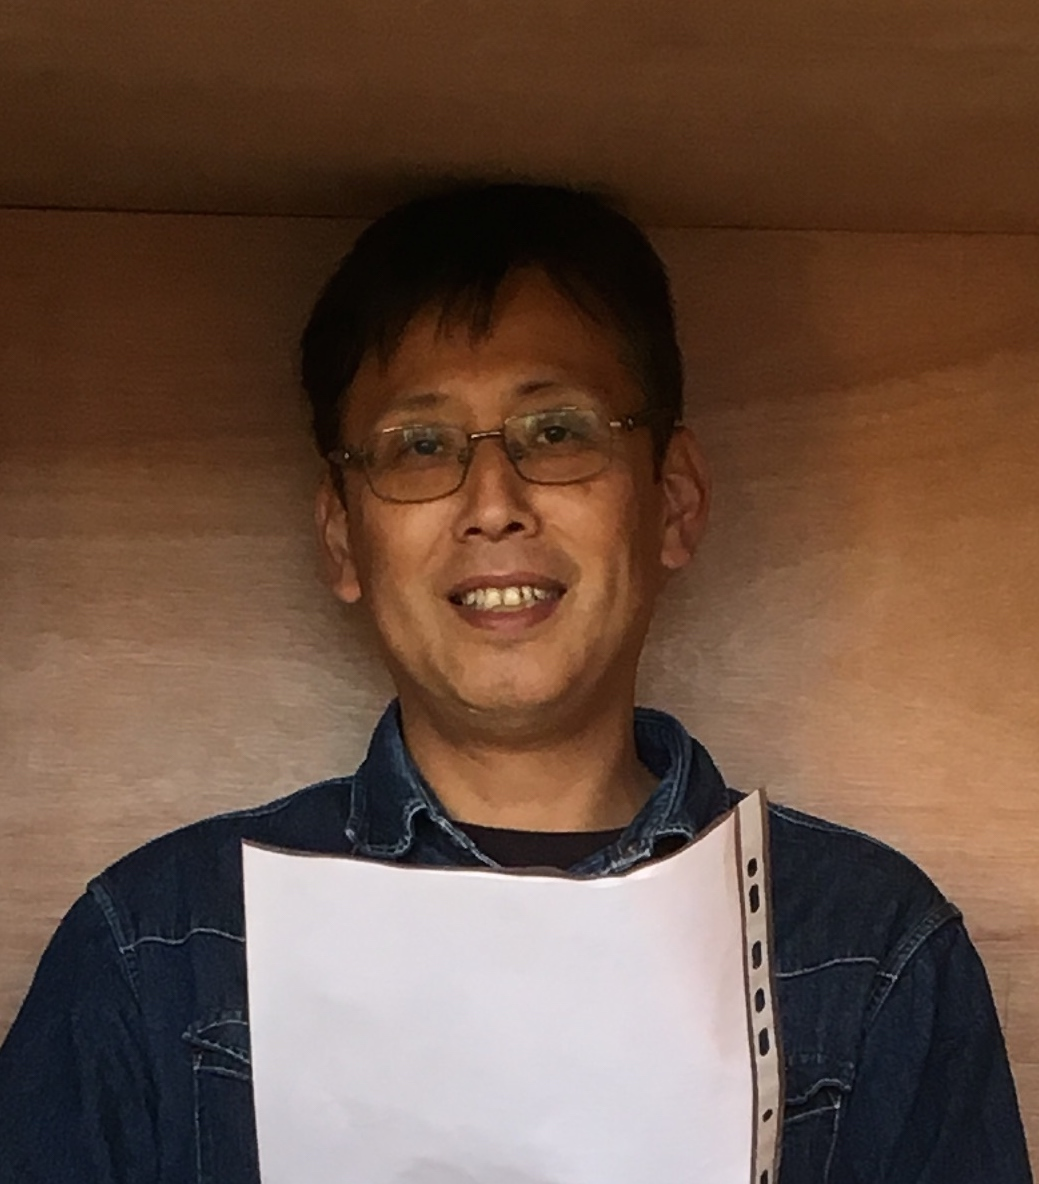
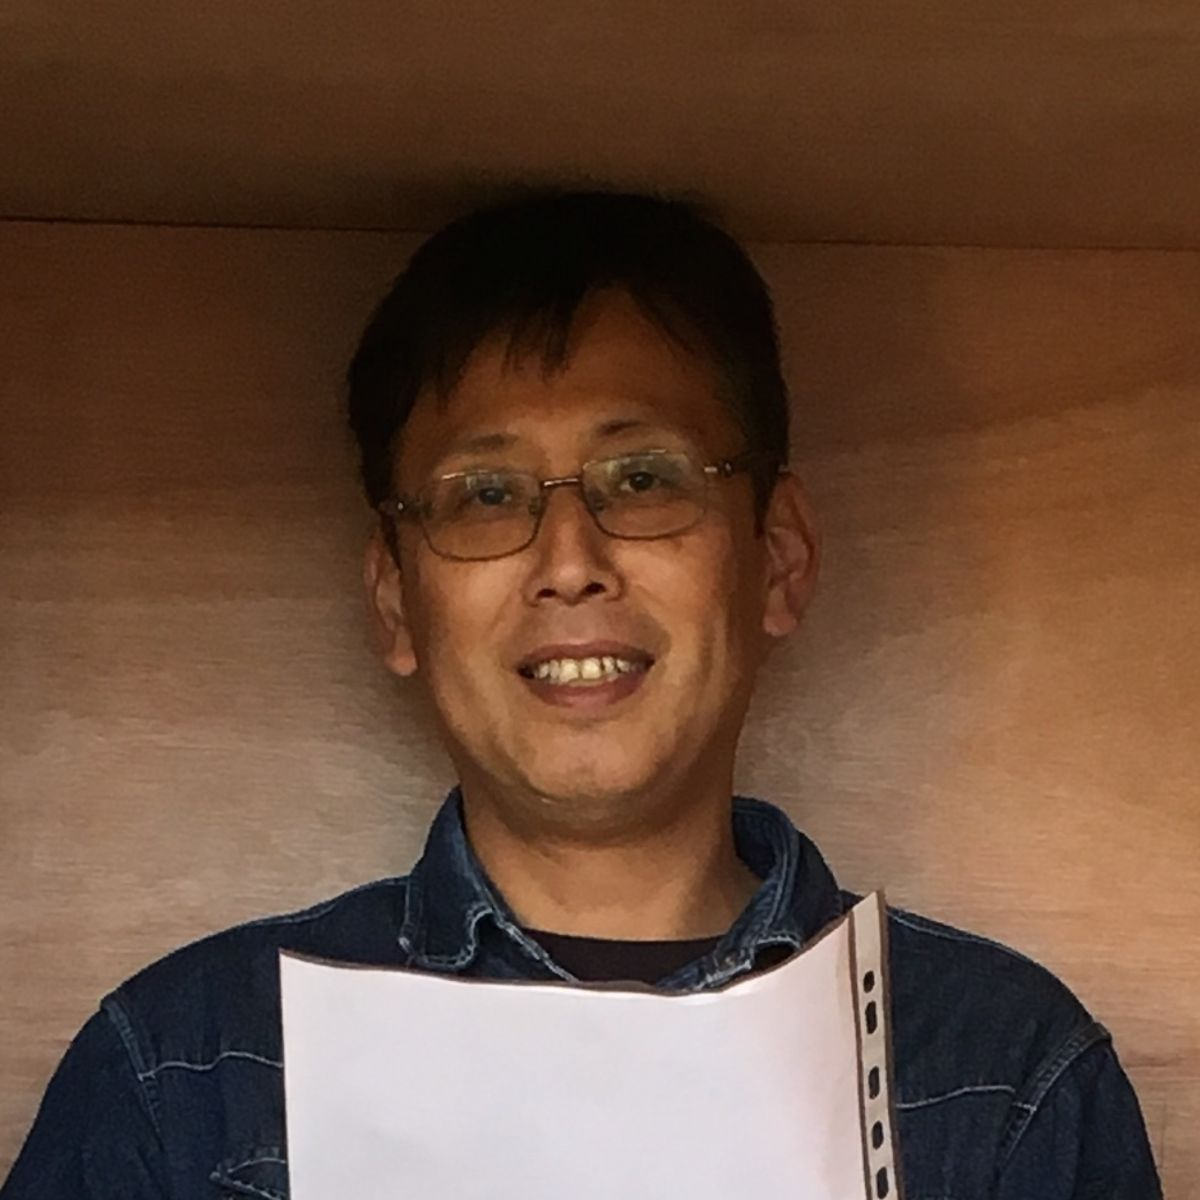
some more photos

diff --git a/committees/steeringcommittee.html b/committees/steeringcommittee.html
@@ -202,7 +202,7 @@
               </div>
             </div>
             <div class="card">
-              <img class="card-img-top" src="../images/globe.png" alt="img">
+                <img class="card-img-top" src="../facebook/MasayukiObayashi.jpg" alt="../images/globe.png">
               <div class="card-body">
                 <h5 class="card-title"><a href="http://www.jamstec.go.jp/souran/html/Masayuki_Obayashi_8d9ac-e.html">Masayuki Obayashi</a></h5>
                 <p class="card-text"><a href="http://www.jamstec.go.jp/e/">JAMSTEC</a></p>

diff --git a/committees/sciencecommittee.html b/committees/sciencecommittee.html
@@ -184,7 +184,7 @@
 	      </div>
 	    </div>
 	    <div class="card">
-            <img class="card-img-top" src="../images/globe.png" alt="../images/globe.png">
+            <img class="card-img-top" src="../facebook/HirokoSugioka_orig.jpg" alt="../images/globe.png">
 	      <div class="card-body">
 		<h5 class="card-title"><a href="http://www.planet.sci.kobe-u.ac.jp/marine/sugioka_e.html">Hiroko Sugioka</a></h5>
 		<p class="card-text"><a href="https://www.kobe-u.ac.jp/en/index.html">Kobe University</a></p>
